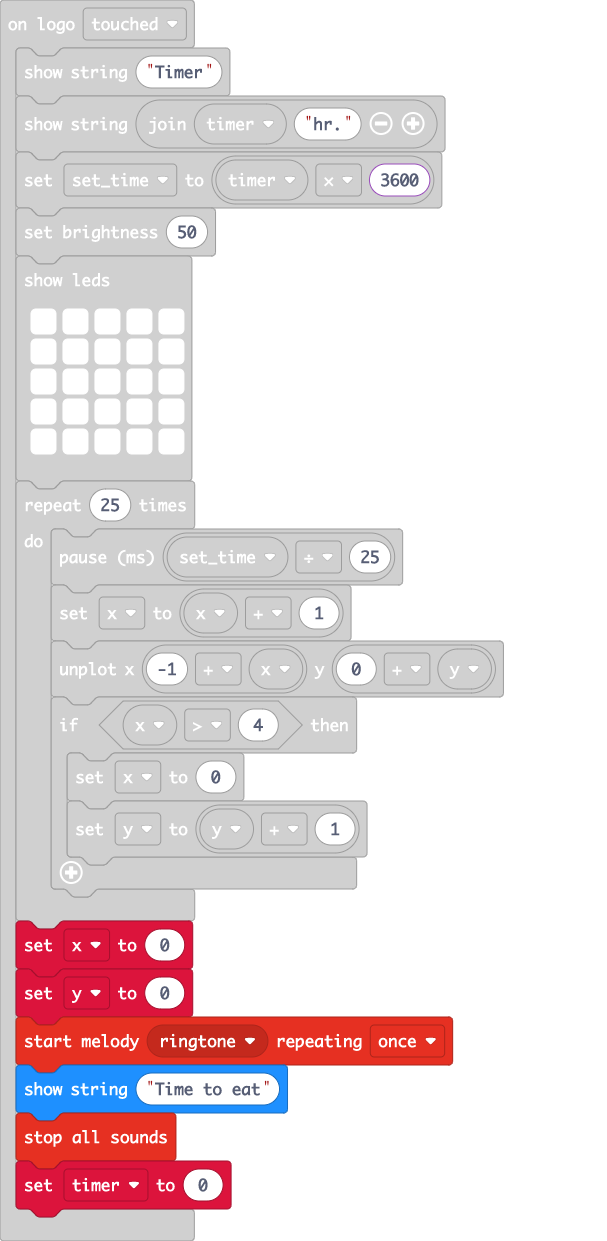
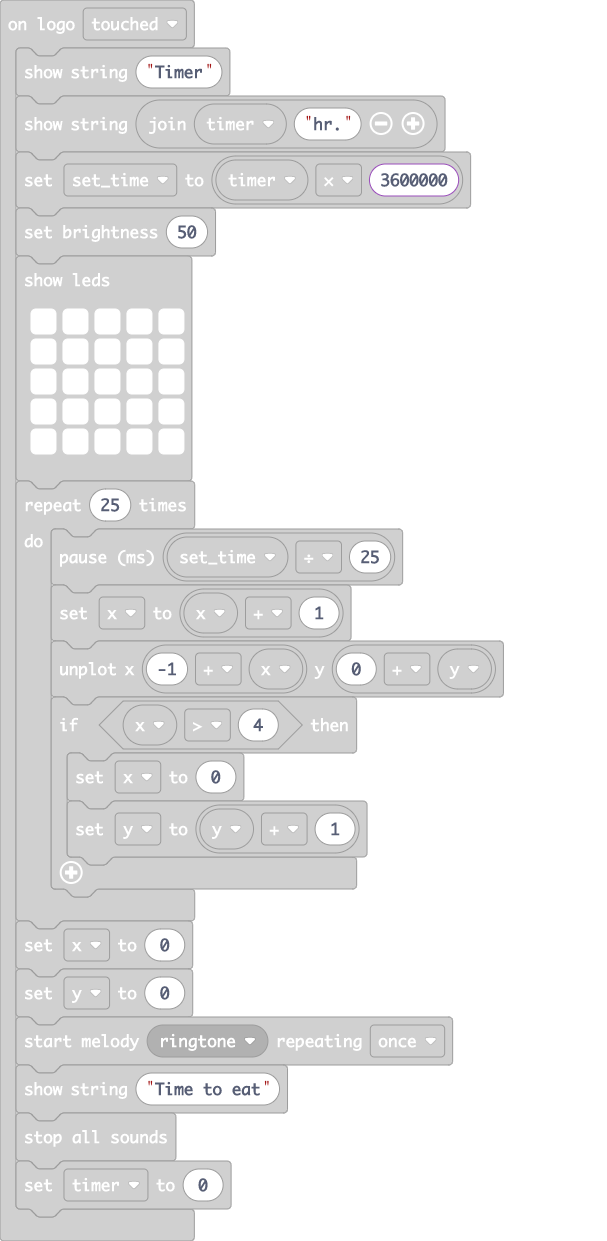
Update main.blocks, main.ts

Changed region(s): [[0.0, 0.7349, 0.771, 0.9799], [0.682, 0.1225, 0.8007, 0.1837]]

diff --git a/main.ts b/main.ts
@@ -13,7 +13,7 @@ input.onButtonPressed(Button.B, function () {
 input.onLogoEvent(TouchButtonEvent.Touched, function () {
     basic.showString("Timer")
     basic.showString("" + timer + "hr.")
-    set_time = timer * 3600
+    set_time = timer * 3600000
     led.setBrightness(50)
     basic.showLeds(`
         # # # # #
